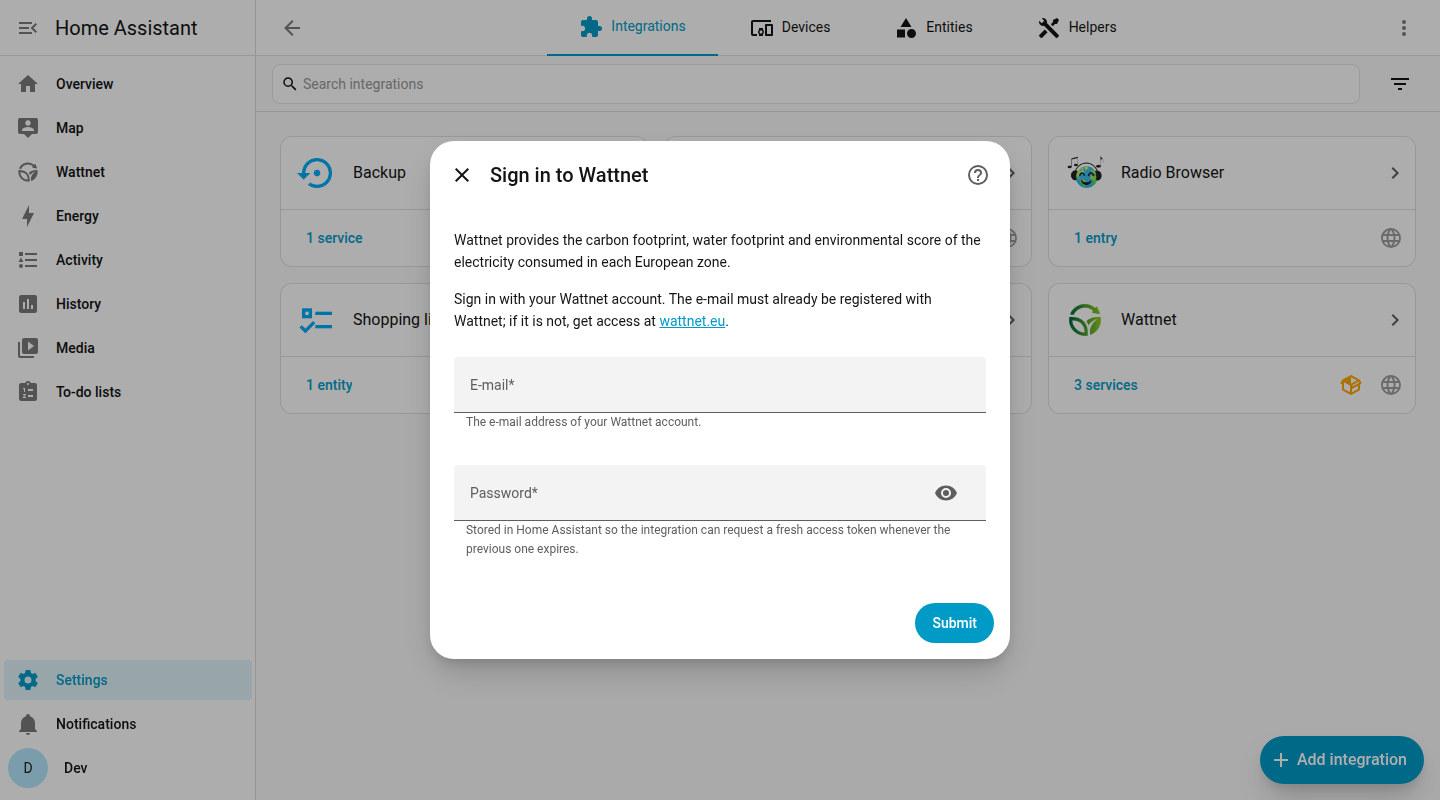
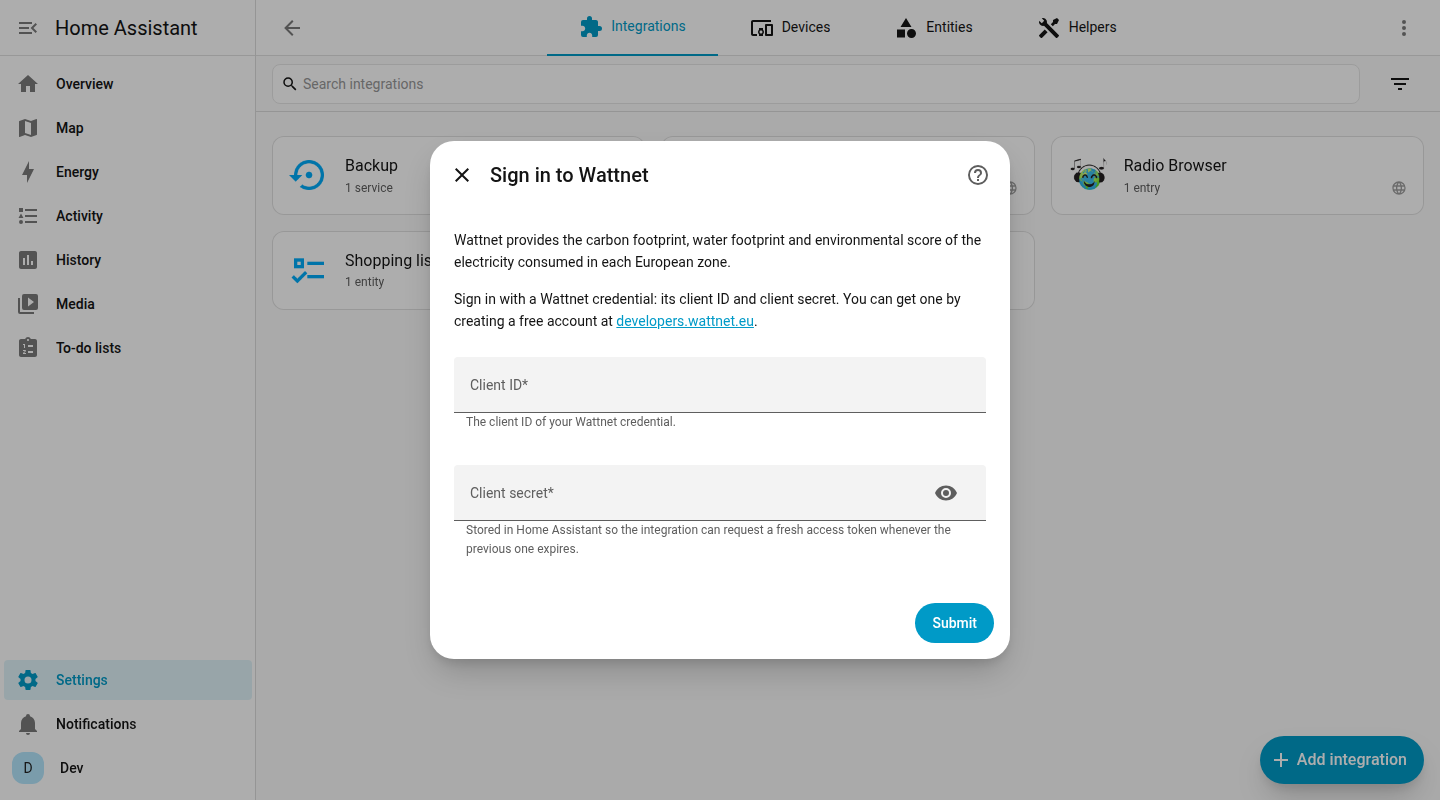
docs: sign in to the Home Assistant integration with a credential

diff --git a/docs/user-guide/home-assistant/home-assistant-installation.md b/docs/user-guide/home-assistant/home-assistant-installation.md
@@ -20,7 +20,7 @@ The Wattnet integration brings the carbon footprint, water footprint, water impa
 ## Requirements
 
 - Home Assistant 2025.11 or newer.
-- A Wattnet account. The e-mail and password are the ones you registered with the token service, as described in [API Access](../api/api-access.md). Access is currently granted on request through [wattnet.eu/contact](https://wattnet.eu/contact).
+- A Wattnet credential (client ID and client secret). Create a free account in the [developer portal](https://developers.wattnet.eu) and create the credential there, as described in [API Access](../api/api-access.md#1-create-a-credential).
 
 ## Installation
 
@@ -45,12 +45,14 @@ Go to **Settings > Devices & services**, press **Add integration** and search fo
 
 ### 1. Sign in
 
-Enter the e-mail and password of your Wattnet account. The e-mail must already be registered with Wattnet.
+Enter the client ID and client secret of your Wattnet credential.
 
 ![The sign in step](../../assets/images/home-assistant/ha-sign-in.png){ loading=lazy }
 
-!!! note "Why an e-mail and password, and not a token"
-    A token expires after one day. With the e-mail and password the integration requests a fresh token whenever it needs one, so it never stops working when a token expires. The password is stored in your Home Assistant.
+!!! note "Why a credential, and not a token"
+    A token expires after one hour. With the credential the integration requests a fresh token whenever it needs one, so it never stops working when a token expires. The client secret is stored in your Home Assistant.
+
+If Wattnet later rejects the stored credential, for example because you regenerated its secret or deleted it in the developer portal, Home Assistant asks you to sign in again with the client ID and the current client secret.
 
 ### 2. Choose the zone and the scope
 
